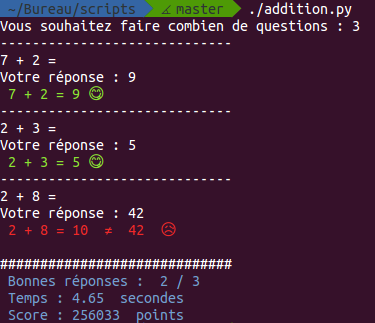
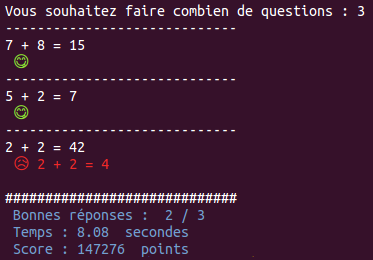
no more « Votre réponse :» displayed

diff --git a/addition.py b/addition.py
@@ -32,17 +32,18 @@ while num_question <nb_questions:
     # Addition
     z=x+y
     print("-----------------------------")
-    print(x,"+",y,"=")
-    input_reponse = input("Votre réponse : ")
+    
+    equation=""+str(x)+" + "+str(y)+" = "
+    input_reponse = input(equation)
     
     if not input_reponse:
         break
     
     if (z==int(input_reponse)):
-        print (color.GREEN, x,"+",y,"=",z, "😋", color.END)
+        print (color.GREEN,"😋",color.END)
         points=points+1
     else:
-        print(color.RED,x,"+",y,"=",z, " ≠ ",input_reponse, " 😥", color.END)
+        print(color.RED,"😥 ",x,"+",y,"=",z,color.END)
 
 stop = timeit.default_timer() # arrêt du chrono
 chrono=stop-start
